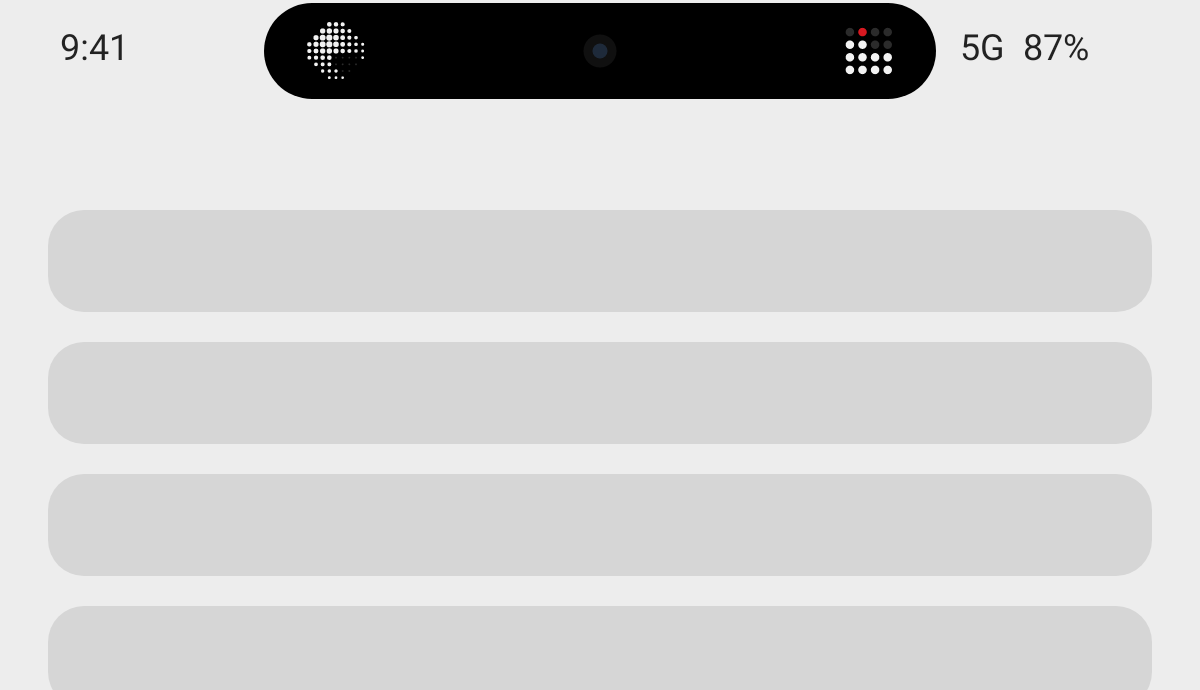
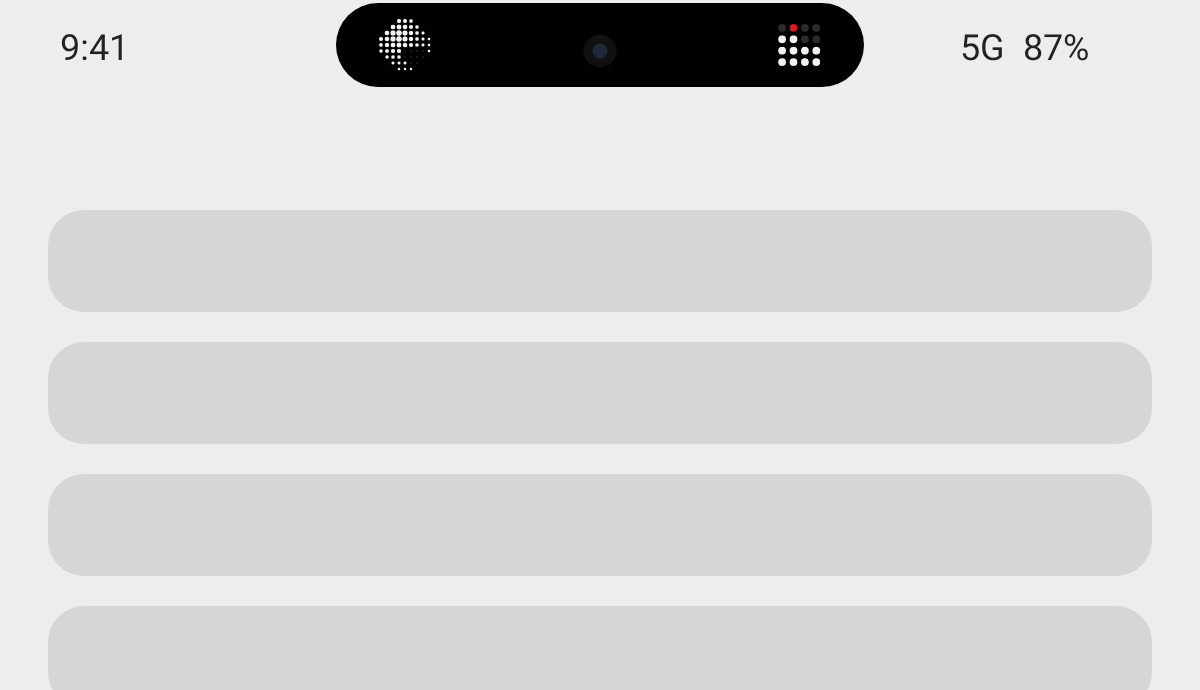
Make the island pill-sized
- Idle pill defaults to 84 x 28 dp (was 100 x 32); compact states are
  32 dp narrower, and the notification banner is shorter and capped at
  360 dp wide.
- Sizes saved by older builds are cleared once so existing installs get
  the smaller pill.
- Width and height sliders now go down to 40 dp and 18 dp; "Fit to camera"
  hugs the hole more tightly.
- Compact ring/vibrate text keeps clear of the camera.

Claude-Session: https://claude.ai/code/session_013Ux6V4Mu22KpPNhHEWNT6s

Changed region(s): [[0.2158, 0.0, 0.8017, 0.1522]]

diff --git a/app/src/main/java/com/wallisland/island/IslandView.kt b/app/src/main/java/com/wallisland/island/IslandView.kt
@@ -122,7 +122,7 @@ class IslandView(context: Context, private val prefs: Prefs, private val host: H
         fontVariationSettings = "'wght' 800, 'ROND' 100"
         letterSpacing = 0.08f
     }
-    private val bigDotPaint = textPaint(Look.dot(context), 17f, Look.WHITE).apply {
+    private val bigDotPaint = textPaint(Look.dot(context), 15f, Look.WHITE).apply {
         fontVariationSettings = "'wght' 900, 'ROND' 100"
     }
     private val titlePaint = textPaint(Look.monoBold(context), 14f, Look.WHITE)
@@ -279,11 +279,11 @@ class IslandView(context: Context, private val prefs: Prefs, private val host: H
 
         val idleW = context.dp(prefs.width.toFloat())
         val idleH = context.dp(prefs.height.toFloat())
-        val bigW = min(resources.displayMetrics.widthPixels - context.dp(20f), context.dp(400f))
+        val bigW = min(resources.displayMetrics.widthPixels - context.dp(24f), context.dp(360f))
         val (w, h) = when (mode) {
             Mode.IDLE -> idleW to idleH
             Mode.MEDIA, Mode.CHARGING, Mode.RINGER -> idleW + 2 * context.dp(SIDE_DP) to idleH
-            Mode.NOTICE -> bigW to idleH + context.dp(66f)
+            Mode.NOTICE -> bigW to idleH + context.dp(60f)
             Mode.MEDIA_EXPANDED -> bigW to idleH + context.dp(172f)
         }
         val previewing = SystemClock.uptimeMillis() < previewUntil
@@ -440,10 +440,10 @@ class IslandView(context: Context, private val prefs: Prefs, private val host: H
     private fun drawMediaCompact(canvas: Canvas, alpha: Int) {
         val m = media ?: return
         val cy = pillRect.top + topZone / 2f
-        val s = context.dp(20f)
+        val s = context.dp(18f)
         box.set(leftSlotStart(), cy - s / 2f, leftSlotStart() + s, cy + s / 2f)
         drawArt(canvas, box, small = true, alpha = alpha)
-        drawVisualizer(canvas, rightSlotEnd(), cy, context.dp(4.2f), 4, 4, m.playing, alpha)
+        drawVisualizer(canvas, rightSlotEnd(), cy, context.dp(3.8f), 4, 4, m.playing, alpha)
     }
 
     private fun drawArt(canvas: Canvas, b: RectF, small: Boolean, alpha: Int) {
@@ -517,8 +517,8 @@ class IslandView(context: Context, private val prefs: Prefs, private val host: H
 
     private fun drawNotice(canvas: Canvas, n: Notice, alpha: Int) {
         drawHeader(canvas, n.appName, "NOW", alpha)
-        val cy = pillRect.top + topZone + context.dp(28f)
-        val s = context.dp(40f)
+        val cy = pillRect.top + topZone + context.dp(26f)
+        val s = context.dp(38f)
         box.set(pillRect.left + context.dp(16f), cy - s / 2f, pillRect.left + context.dp(16f) + s, cy + s / 2f)
         val avatar = noticeAvatar
         if (avatar != null) {
@@ -704,7 +704,7 @@ class IslandView(context: Context, private val prefs: Prefs, private val host: H
         }
         bigDotPaint.color = if (mode == AudioManager.RINGER_MODE_SILENT) Look.RED else Look.WHITE
         bigDotPaint.alpha = alpha
-        val slot = rightSlotEnd() - (pillRect.centerX() + idleHalf + context.dp(6f))
+        val slot = rightSlotEnd() - (pillRect.centerX() + context.dp(CAMERA_CLEAR_DP))
         val size = bigDotPaint.textSize
         bigDotPaint.textSize = min(size, size * slot / max(1f, bigDotPaint.measureText(label)))
         val tw = bigDotPaint.measureText(label)
@@ -936,8 +936,11 @@ class IslandView(context: Context, private val prefs: Prefs, private val host: H
     companion object {
         private const val SKIP_MS = 10_000L
         private const val ELLIPSIS = "\u2026"
-        private const val SIDE_DP = 62f
+        private const val SIDE_DP = 46f
         private const val ART_DP = 76f
+
+        /** Half-width kept clear around the camera hole in compact states. */
+        private const val CAMERA_CLEAR_DP = 16f
         private const val PAUSE_LINGER_MS = 60_000L
         private const val FADE_OUT_MS = 90f
         private const val FADE_IN_MS = 200f

diff --git a/app/src/main/java/com/wallisland/island/MainActivity.kt b/app/src/main/java/com/wallisland/island/MainActivity.kt
@@ -218,13 +218,13 @@ class MainActivity : Activity() {
         camRow.addView(pillButton(this, "Fit to camera") { fitToCamera() })
         card.addView(camRow)
         card.addView(divider())
-        card.addView(sliderRow("Width", 60, 220, prefs.width, "dp") { prefs.width = it })
-        card.addView(sliderRow("Height", 22, 48, prefs.height, "dp") { prefs.height = it })
+        card.addView(sliderRow("Width", 40, 220, prefs.width, "dp") { prefs.width = it })
+        card.addView(sliderRow("Height", 18, 48, prefs.height, "dp") { prefs.height = it })
         card.addView(sliderRow("Move left / right", -60, 60, prefs.offsetX, "dp") { prefs.offsetX = it })
         card.addView(sliderRow("Move up / down", -30, 40, prefs.offsetY, "dp") { prefs.offsetY = it })
         card.addView(sliderRow("Notification time", 2, 10, prefs.noticeSeconds, "s", live = false) { prefs.noticeSeconds = it })
         val reset = pillButton(this, "Reset size") {
-            prefs.width = 100; prefs.height = 32; prefs.offsetX = 0; prefs.offsetY = 0; prefs.noticeSeconds = 4
+            prefs.width = Prefs.DEFAULT_WIDTH; prefs.height = Prefs.DEFAULT_HEIGHT; prefs.offsetX = 0; prefs.offsetY = 0; prefs.noticeSeconds = 4
             recreate()
         }
         card.addView(FrameLayout(this).apply {
@@ -299,9 +299,9 @@ class MainActivity : Activity() {
         }
         val d = resources.displayMetrics.density
         val hole = cam.height().coerceAtLeast(cam.width()) / d
-        val h = (hole + 18f).roundToInt().coerceIn(22, 48)
+        val h = (hole + 14f).roundToInt().coerceIn(18, 48)
         prefs.height = h
-        prefs.width = (h * 3.3f).roundToInt().coerceIn(60, 220)
+        prefs.width = (h * 3f).roundToInt().coerceIn(40, 220)
         prefs.offsetX = 0
         prefs.offsetY = 0
         prefs.autoAlign = true

diff --git a/app/src/main/java/com/wallisland/island/Prefs.kt b/app/src/main/java/com/wallisland/island/Prefs.kt
@@ -7,6 +7,14 @@ import android.content.SharedPreferences
 class Prefs(context: Context) {
     val sp: SharedPreferences = context.applicationContext.getSharedPreferences("island", Context.MODE_PRIVATE)
 
+    init {
+        // v2 made the default pill much smaller. Drop sizes saved by older builds once, so existing
+        // installs pick up the new size too; the sliders still work as before afterwards.
+        if (!sp.getBoolean("size_v2", false)) {
+            sp.edit().remove("width").remove("height").putBoolean("size_v2", true).apply()
+        }
+    }
+
     var enabled by bool(KEY_ENABLED, true)
 
     var showMedia by bool("show_media", true)
@@ -22,8 +30,8 @@ class Prefs(context: Context) {
     var autoAlign by bool("auto_align", true)
 
     /** Idle pill size in dp. */
-    var width by int("width", 100)
-    var height by int("height", 32)
+    var width by int("width", DEFAULT_WIDTH)
+    var height by int("height", DEFAULT_HEIGHT)
 
     /** Fine-tuning on top of the auto camera alignment, in dp. */
     var offsetX by int("offset_x", 0)
@@ -56,5 +64,9 @@ class Prefs(context: Context) {
 
     companion object {
         const val KEY_ENABLED = "enabled"
+
+        /** A small pill, a little bigger than the camera hole on most phones. */
+        const val DEFAULT_WIDTH = 84
+        const val DEFAULT_HEIGHT = 28
     }
 }
